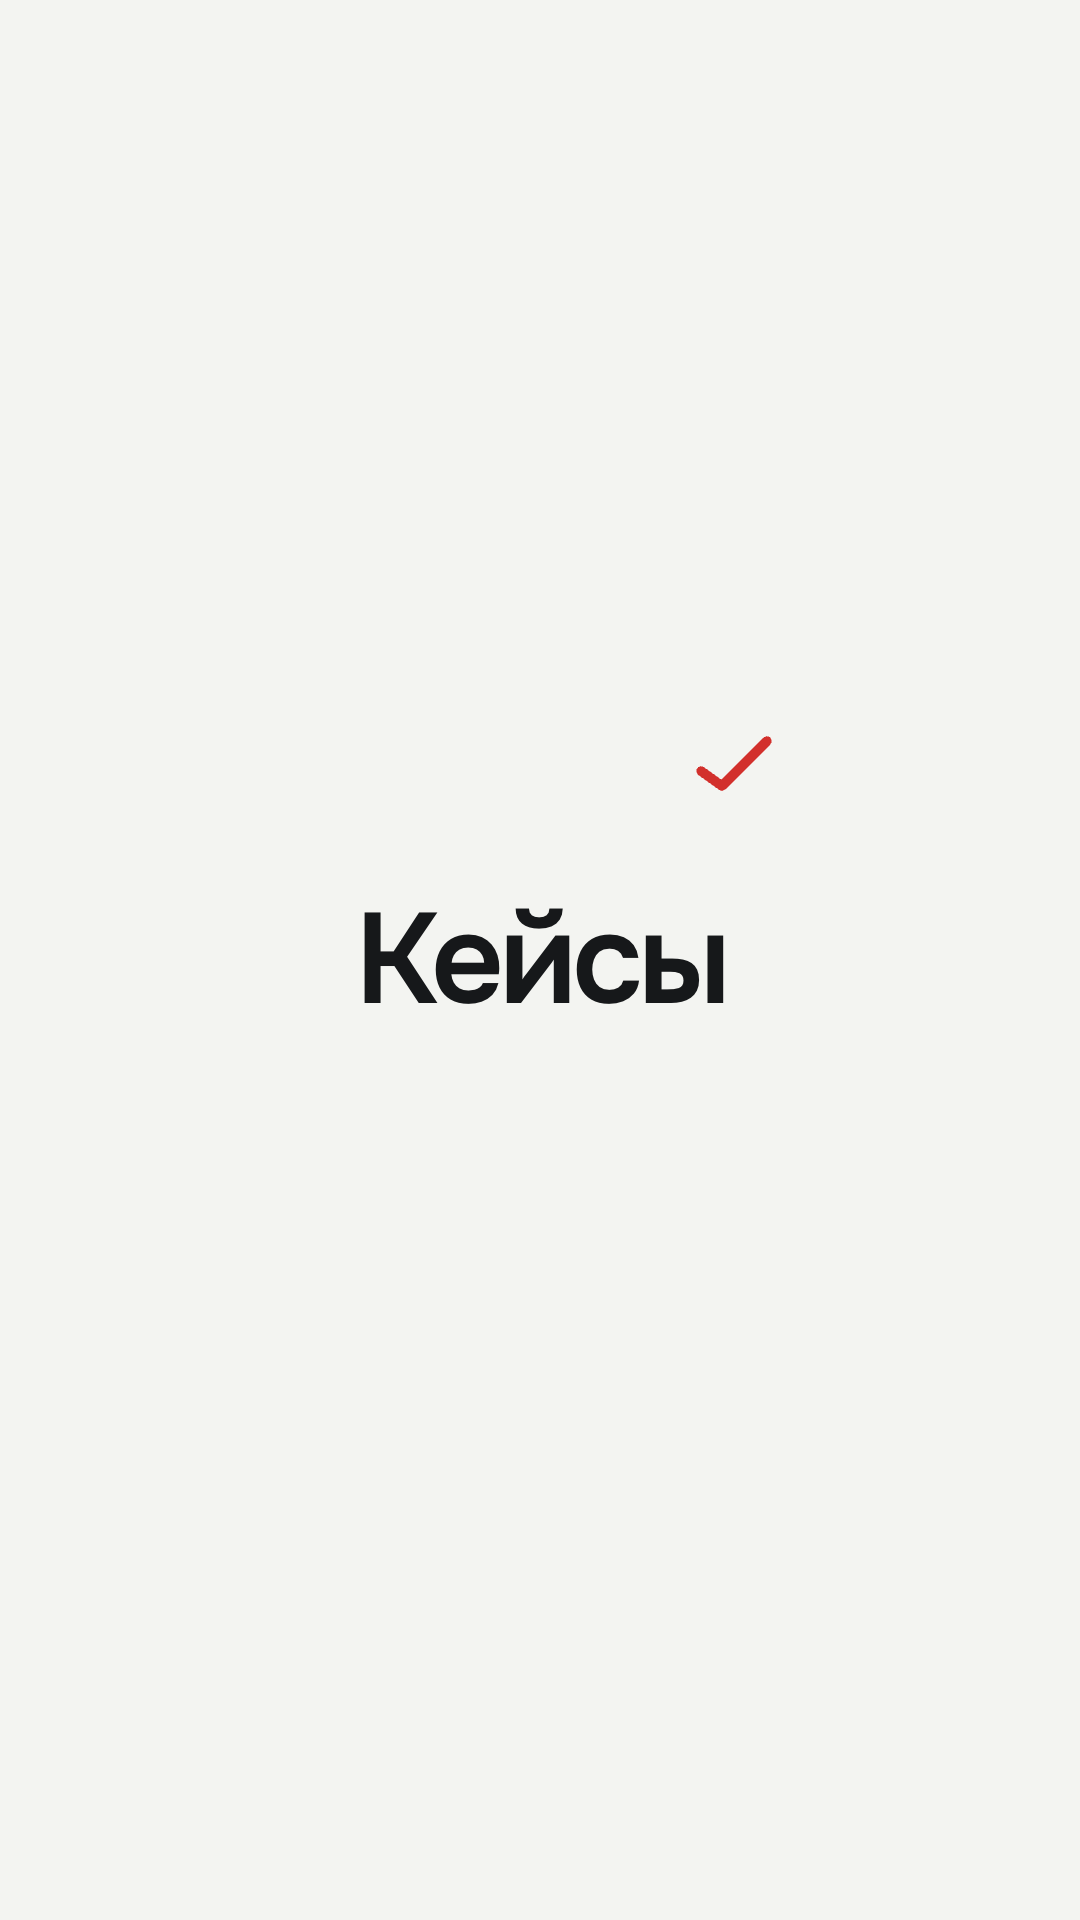
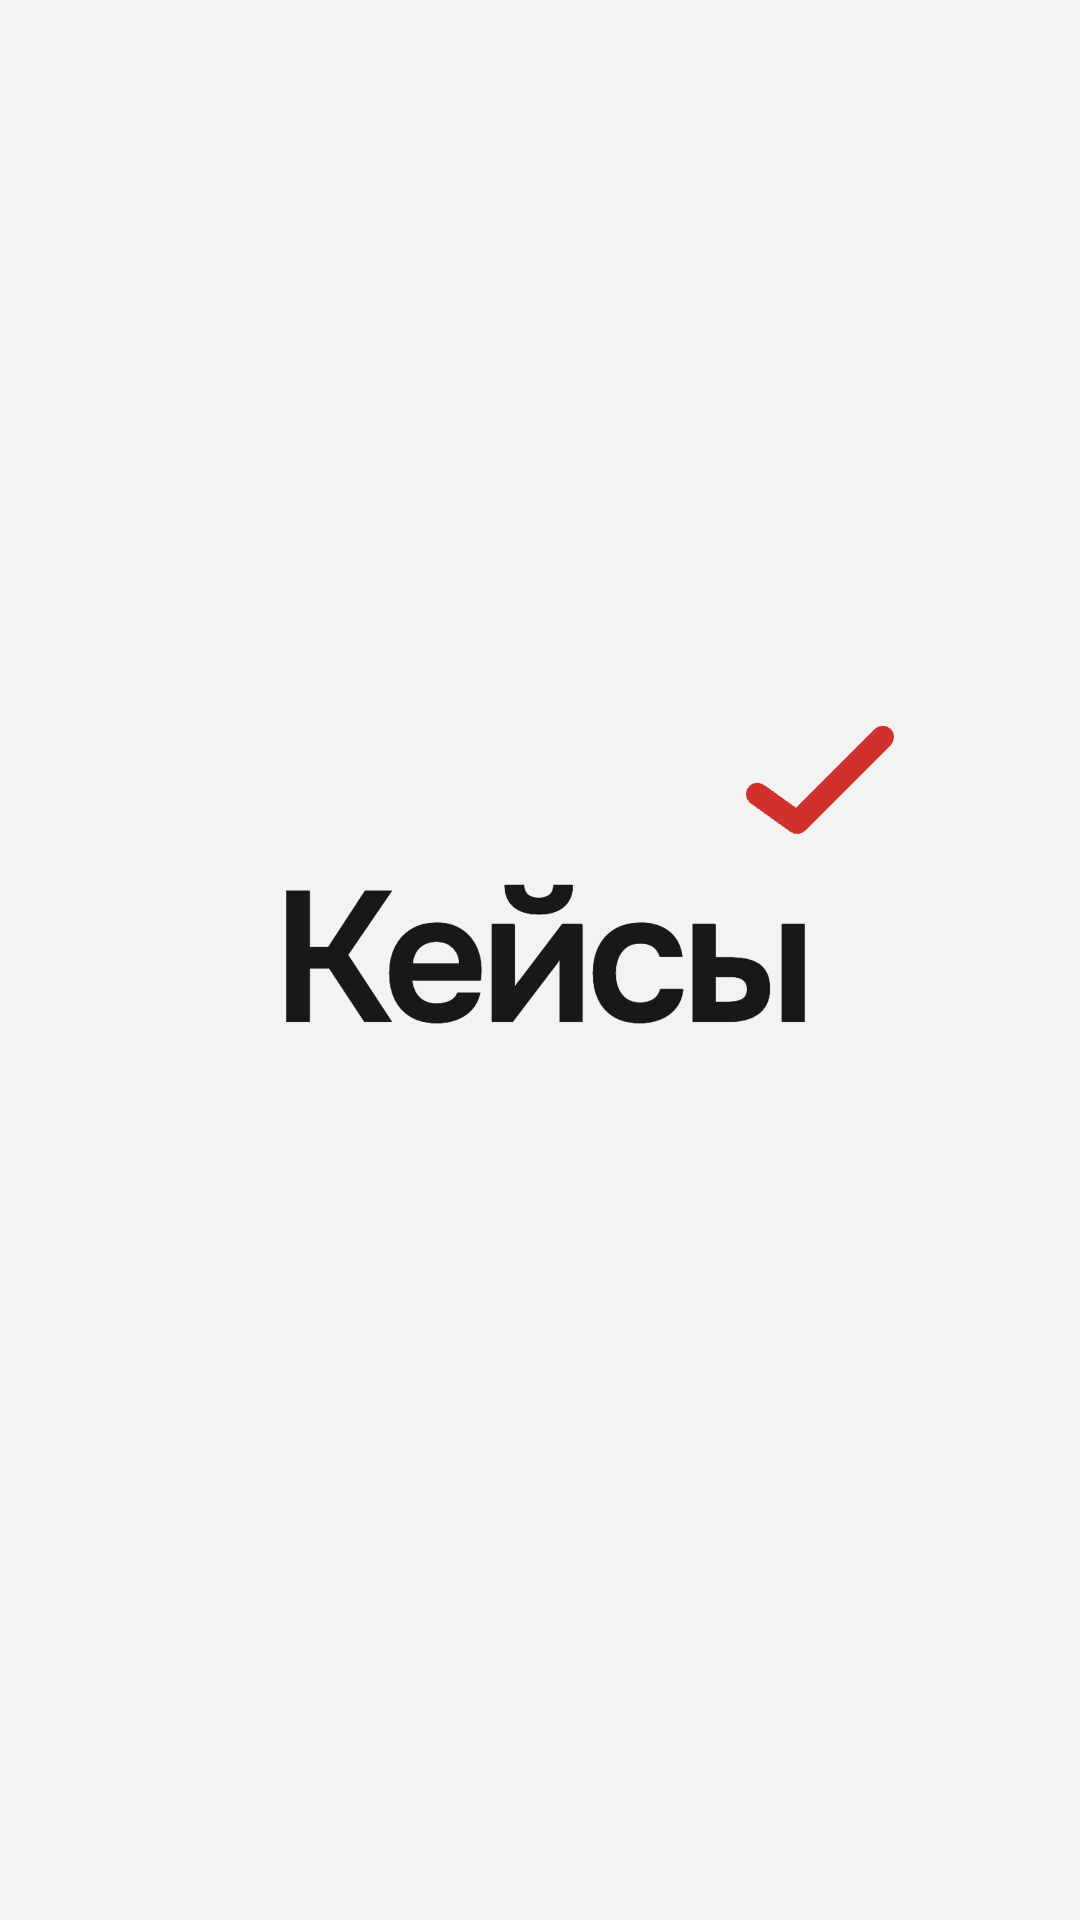
Instagram: обложки Актуального — крупнее слово и галочка
- Слово на обложках примерно в 1,4 раза крупнее
- Галочка вдвое больше и толще, в одном месте на всех пяти, не задевает буквы

Changed region(s): [[0.2444, 0.4375, 0.7639, 0.5312], [0.6417, 0.375, 0.825, 0.4375]]

diff --git a/Posts/instagram/render/render.py b/Posts/instagram/render/render.py
@@ -240,11 +240,12 @@ def t_story_review(s):
 
 def t_highlight(s):
     """Обложка Актуального: Instagram вырезает круг по центру."""
-    check = CHECK.format(s=84, h=60)
+    check = CHECK.format(s=160, h=114).replace('stroke-width="1.6"', 'stroke-width="2"')  # в кружке 64 px мелкая галочка теряется
     return (f'<div style="width:1080px;height:1920px;background:#F3F4F1;display:flex;align-items:center;justify-content:center">'
-            f'<div style="position:relative;width:640px;height:640px;display:flex;align-items:center;justify-content:center">'
-            f'<span style="font-size:{s.get("size", 120)}px;font-weight:600;letter-spacing:-.04em">{html.escape(s["word"])}</span>'
-            f'<span style="position:absolute;top:92px;right:84px">{check}</span></div></div>')
+            f'<div style="position:relative;width:1080px;height:1080px;display:flex;align-items:center;justify-content:center">'
+            f'<span style="white-space:nowrap;font-size:{s.get("size", 120)}px;font-weight:600;letter-spacing:-.04em;line-height:1">{html.escape(s["word"])}</span>'
+            # галочка в одном месте на всех обложках: над правым краем слова, не задевая букв
+            f'<span style="position:absolute;top:300px;left:740px">{check}</span></div></div>')
 
 
 def t_reel_cover(s):

diff --git a/Posts/instagram/2026-11-16-launch/slides.py b/Posts/instagram/2026-11-16-launch/slides.py
@@ -129,8 +129,8 @@ add(dict(name="r2-cover", kind="reel_cover", label="Позиции", title="Из
 add(dict(name="r3-cover", kind="reel_cover", label="Право управлять", title="Вам [[u:не нужен]] ещё один курс по менеджменту", size=108))
 
 # ---------- Актуальное: обложки ----------
-for slug, word, size in [("kto-ya", "Кто я", 132), ("pozicii", "Позиции", 118), ("razbor", "Разбор", 124),
-                         ("otzyvy", "Отзывы", 124), ("keysy", "Кейсы", 128)]:
+for slug, word, size in [("kto-ya", "Кто я", 190), ("pozicii", "Позиции", 172), ("razbor", "Разбор", 180),
+                         ("otzyvy", "Отзывы", 180), ("keysy", "Кейсы", 185)]:
     add(dict(name=f"h-{slug}-0", kind="highlight", word=word, size=size))
 
 # Актуальное «Кто я»
